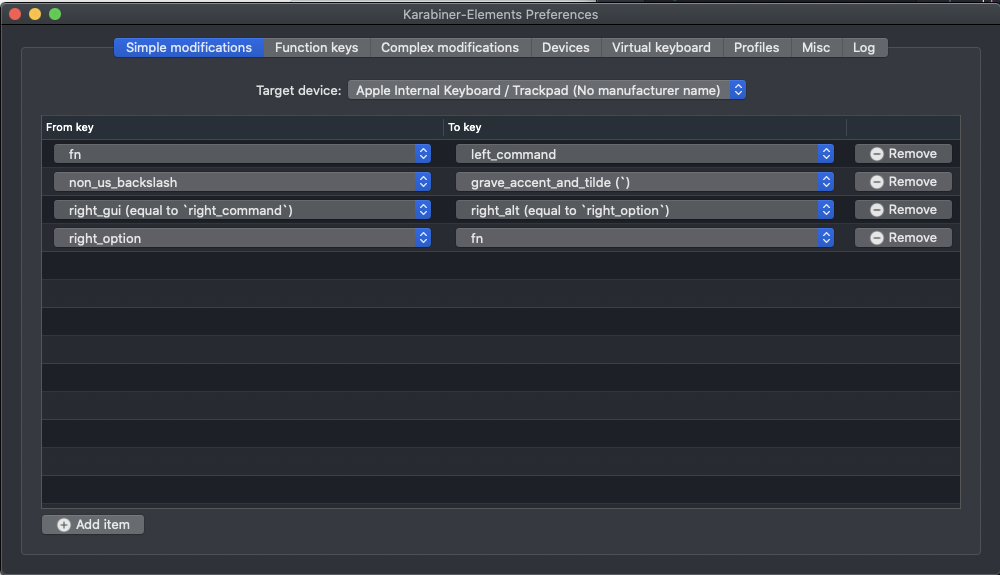
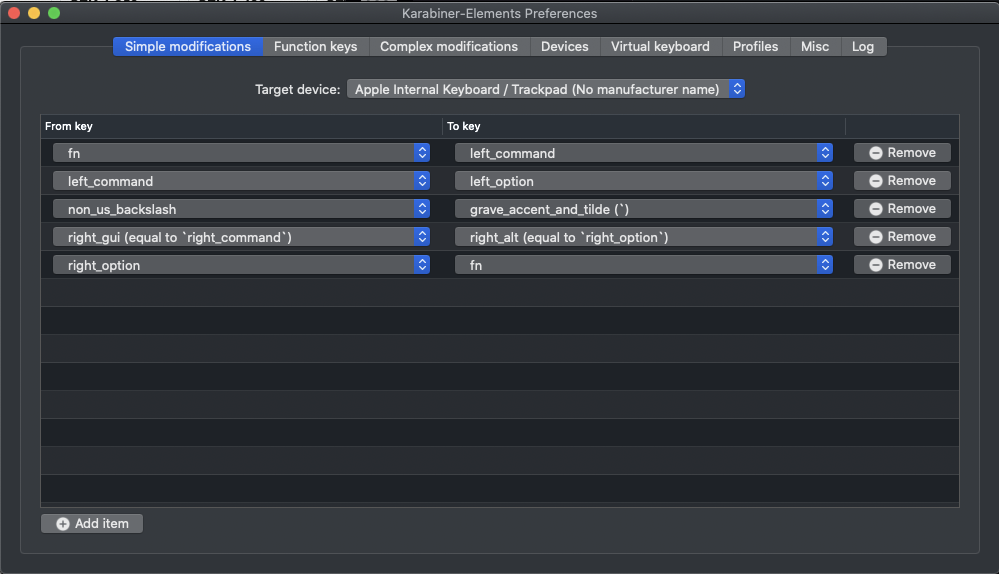
add left cmd for better diacritis

diff --git a/keyboard/readme.md b/keyboard/readme.md
@@ -27,7 +27,11 @@ I use [Karabiner](https://github.com/pqrs-org/Karabiner-Elements) for custom key
 | right_gui (equals to `right_command`) | right_alt (equals to `right_option`) |
 | non_us_backslash                      | grave_accent_and_tilde (`)           |
 | right_option                          | fn                                   |
+| left_command                          | left_option                          |
 
+
+I switched `left_command` with `left_option` for more comfortable writing of czech diacritics on czech programming keyboard...
+I think that this features will be problem on window/linux because there is only right `altGr` but I hope I'll figure it out somehow in the future
 
 ![Custom key swapping modifications](/keyboard/karabiner-mac-key-swapping.png)
 
